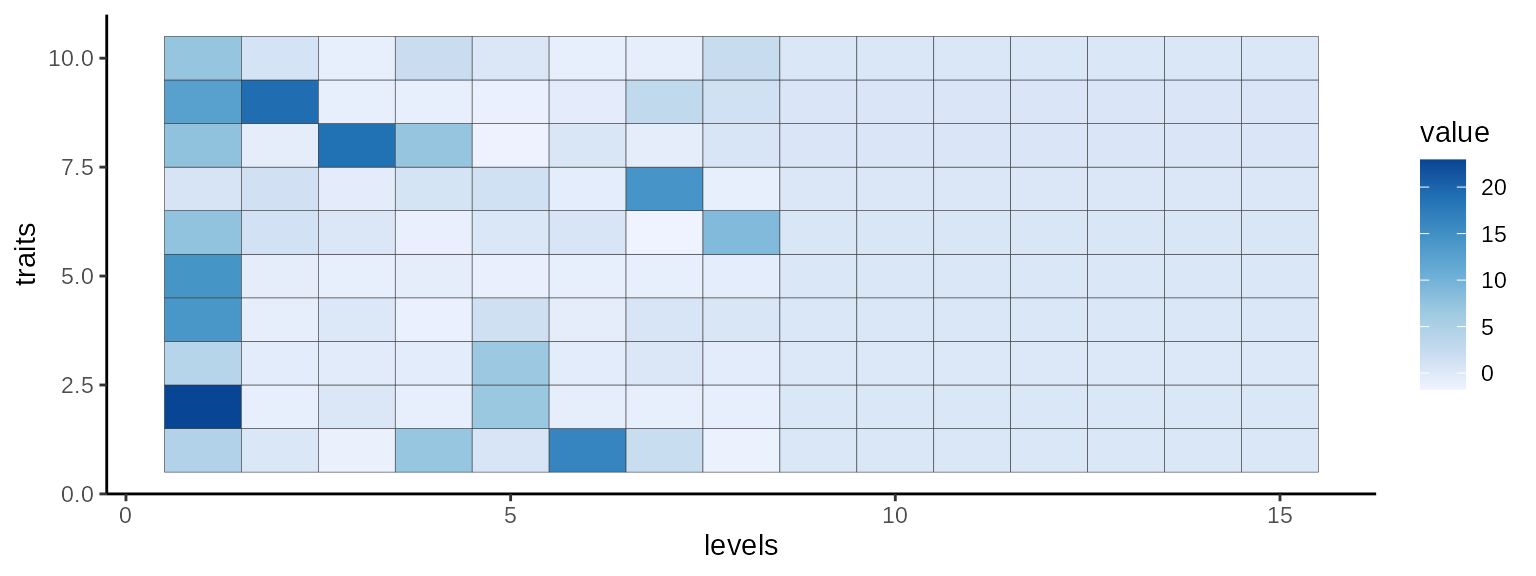
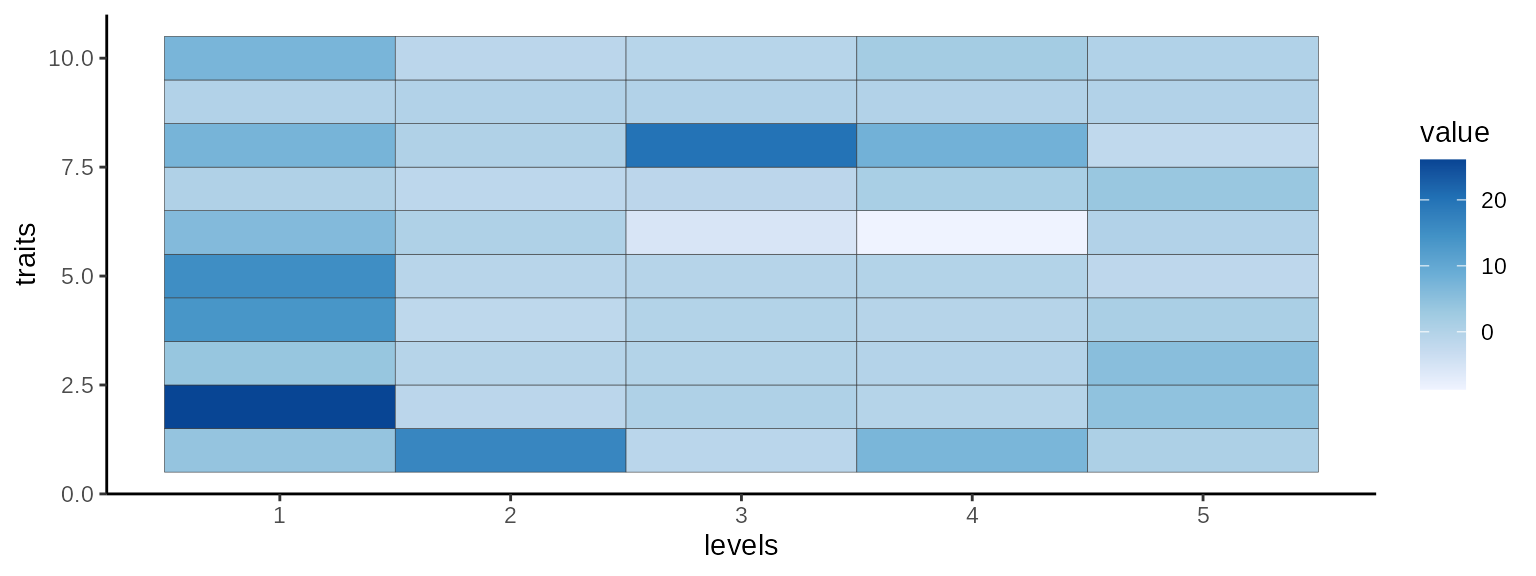
clean version

diff --git a/docs/articles/mtSusie.html b/docs/articles/mtSusie.html
@@ -33,7 +33,7 @@
       </button>
       <span class="navbar-brand">
         <a class="navbar-link" href="../index.html">mtSusie</a>
-        <span class="version label label-default" data-toggle="tooltip" data-placement="bottom" title="">0.1</span>
+        <span class="version label label-default" data-toggle="tooltip" data-placement="bottom" title="">0.1.1</span>
       </span>
     </div>
 
@@ -149,24 +149,26 @@
 <p>Here comes our <code>mtSusie</code> (multi-trait Sum of Single Effects) model. The idea is a simple modification to the original <code>susieR</code> method. For each level/layer, we aggregate the log Bayes Factors across multiple traits. Yes, it was that simple.</p>
 <div class="sourceCode" id="cb6"><pre class="downlit sourceCode r">
 <code class="sourceCode R"><span class="kw"><a href="https://rdrr.io/r/base/library.html" class="external-link">library</a></span><span class="op">(</span><span class="va">mtSusie</span><span class="op">)</span>
-<span class="va">mt.susie</span> <span class="op">&lt;-</span> <span class="fu"><a href="../reference/mt_susie.html">mt_susie</a></span><span class="op">(</span><span class="va">X</span>, <span class="va">Y</span>, clamp<span class="op">=</span><span class="cn">NULL</span><span class="op">)</span></code></pre></div>
+<span class="va">mt.susie</span> <span class="op">&lt;-</span> <span class="fu"><a href="../reference/mt_susie.html">mt_susie</a></span><span class="op">(</span><span class="va">X</span>, <span class="va">Y</span><span class="op">)</span></code></pre></div>
+<pre><code><span class="co">## winsorization with the clamping value = 4</span></code></pre>
 <pre><code><span class="co">## Fitting mtSusie ...</span></code></pre>
 <pre><code><span class="co">## Done</span></code></pre>
 <p>Which traits do we combine at each level?</p>
-<div class="sourceCode" id="cb9"><pre class="downlit sourceCode r">
+<div class="sourceCode" id="cb10"><pre class="downlit sourceCode r">
 <code class="sourceCode R"><span class="va">.dt</span> <span class="op">&lt;-</span> <span class="fu">reshape2</span><span class="fu">::</span><span class="fu"><a href="https://rdrr.io/pkg/reshape2/man/melt.html" class="external-link">melt</a></span><span class="op">(</span><span class="va">mt.susie</span><span class="op">$</span><span class="va">log.odds</span><span class="op">)</span>
 <span class="fu">ggplot</span><span class="op">(</span><span class="va">.dt</span>, <span class="fu">aes</span><span class="op">(</span><span class="va">Var1</span>, <span class="va">Var2</span>, fill<span class="op">=</span><span class="va">value</span><span class="op">)</span><span class="op">)</span> <span class="op">+</span>
     <span class="fu">geom_tile</span><span class="op">(</span>colour<span class="op">=</span><span class="st">"gray20"</span>, size<span class="op">=</span><span class="fl">.1</span><span class="op">)</span> <span class="op">+</span>
     <span class="fu">xlab</span><span class="op">(</span><span class="st">"levels"</span><span class="op">)</span> <span class="op">+</span> <span class="fu">ylab</span><span class="op">(</span><span class="st">"traits"</span><span class="op">)</span> <span class="op">+</span>
     <span class="fu">scale_fill_distiller</span><span class="op">(</span>direction<span class="op">=</span><span class="fl">1</span><span class="op">)</span></code></pre></div>
 <p><img src="mtSusie_files/figure-html/unnamed-chunk-8-1.png" width="768"></p>
-<div class="sourceCode" id="cb10"><pre class="downlit sourceCode r">
+<div class="sourceCode" id="cb11"><pre class="downlit sourceCode r">
 <code class="sourceCode R"><span class="va">.dt</span> <span class="op">&lt;-</span> <span class="fu">reshape2</span><span class="fu">::</span><span class="fu"><a href="https://rdrr.io/pkg/reshape2/man/melt.html" class="external-link">melt</a></span><span class="op">(</span><span class="va">mt.susie</span><span class="op">$</span><span class="va">alpha</span><span class="op">)</span> <span class="op">%&gt;%</span>
-    <span class="fu"><a href="https://rdrr.io/r/stats/filter.html" class="external-link">filter</a></span><span class="op">(</span><span class="va">Var2</span> <span class="op">&lt;=</span> <span class="fl">10</span><span class="op">)</span>
+    <span class="fu"><a href="https://rdrr.io/r/stats/filter.html" class="external-link">filter</a></span><span class="op">(</span><span class="va">Var2</span> <span class="op">&lt;=</span> <span class="fl">10</span><span class="op">)</span> <span class="op">%&gt;%</span>
+    <span class="fu">mutate</span><span class="op">(</span>lvl <span class="op">=</span> <span class="fu"><a href="https://rdrr.io/r/base/sprintf.html" class="external-link">sprintf</a></span><span class="op">(</span><span class="st">"L%02d"</span>, <span class="va">`Var2`</span><span class="op">)</span><span class="op">)</span>
 
 <span class="va">plt</span> <span class="op">&lt;-</span>
     <span class="fu">ggplot</span><span class="op">(</span><span class="va">.dt</span>, <span class="fu">aes</span><span class="op">(</span><span class="va">Var1</span>, <span class="va">value</span><span class="op">)</span><span class="op">)</span> <span class="op">+</span>
-    <span class="fu">facet_wrap</span><span class="op">(</span><span class="va">.</span><span class="op">~</span><span class="va">Var2</span>, nrow <span class="op">=</span> <span class="fl">2</span><span class="op">)</span> <span class="op">+</span>
+    <span class="fu">facet_wrap</span><span class="op">(</span><span class="va">.</span><span class="op">~</span><span class="va">lvl</span>, nrow <span class="op">=</span> <span class="fl">2</span><span class="op">)</span> <span class="op">+</span>
     <span class="fu">ylab</span><span class="op">(</span><span class="st">"PIP"</span><span class="op">)</span> <span class="op">+</span> <span class="fu">xlab</span><span class="op">(</span><span class="st">"variants"</span><span class="op">)</span> <span class="op">+</span>
     <span class="fu">geom_point</span><span class="op">(</span>colour<span class="op">=</span><span class="st">"gray"</span>, size<span class="op">=</span><span class="fl">2</span><span class="op">)</span>
 
@@ -177,7 +179,7 @@
 <span class="fu"><a href="https://rdrr.io/r/base/print.html" class="external-link">print</a></span><span class="op">(</span><span class="va">plt</span><span class="op">)</span></code></pre></div>
 <p><img src="mtSusie_files/figure-html/unnamed-chunk-9-1.png" width="768"></p>
 <p>Once we have identified a “union” of all the causal variants across all the traits, we can assign trait-specific effects based on variant-by-variant statistics at each level/layer. At each level, <code>mtSusie</code> will select a causal variant shared across traits, but not all the traits will support it and result in trait-specific local false sign rate (LFSR) values.</p>
-<div class="sourceCode" id="cb11"><pre class="downlit sourceCode r">
+<div class="sourceCode" id="cb12"><pre class="downlit sourceCode r">
 <code class="sourceCode R"><span class="va">.dt</span> <span class="op">&lt;-</span> <span class="fu">data.table</span><span class="fu">::</span><span class="fu"><a href="https://Rdatatable.gitlab.io/data.table/reference/setDT.html" class="external-link">setDT</a></span><span class="op">(</span><span class="va">mt.susie</span><span class="op">$</span><span class="va">cs</span><span class="op">)</span>
 <span class="va">.show</span> <span class="op">&lt;-</span> <span class="fu"><a href="https://rdrr.io/r/base/unique.html" class="external-link">unique</a></span><span class="op">(</span><span class="va">.dt</span><span class="op">[</span><span class="va">alpha</span> <span class="op">&gt;</span> <span class="fl">.1</span><span class="op">]</span><span class="op">$</span><span class="va">variants</span><span class="op">)</span>
 <span class="va">.dt</span> <span class="op">&lt;-</span> <span class="va">.dt</span><span class="op">[</span><span class="va">variants</span> <span class="op"><a href="https://rdrr.io/r/base/match.html" class="external-link">%in%</a></span> <span class="va">.show</span><span class="op">]</span>

diff --git a/docs/reference/fit_mt_interaction_susie.html b/docs/reference/fit_mt_interaction_susie.html
@@ -1,5 +1,5 @@
 <!DOCTYPE html>
-<!-- Generated by pkgdown: do not edit by hand --><html lang="en"><head><meta http-equiv="Content-Type" content="text/html; charset=UTF-8"><meta charset="utf-8"><meta http-equiv="X-UA-Compatible" content="IE=edge"><meta name="viewport" content="width=device-width, initial-scale=1.0"><title>Estimate a multi-trait Sum of Single Effect regression model — fit_mt_susie • mtSusie</title><!-- jquery --><script src="https://cdnjs.cloudflare.com/ajax/libs/jquery/3.4.1/jquery.min.js" integrity="sha256-CSXorXvZcTkaix6Yvo6HppcZGetbYMGWSFlBw8HfCJo=" crossorigin="anonymous"></script><!-- Bootstrap --><link rel="stylesheet" href="https://cdnjs.cloudflare.com/ajax/libs/twitter-bootstrap/3.4.1/css/bootstrap.min.css" integrity="sha256-bZLfwXAP04zRMK2BjiO8iu9pf4FbLqX6zitd+tIvLhE=" crossorigin="anonymous"><script src="https://cdnjs.cloudflare.com/ajax/libs/twitter-bootstrap/3.4.1/js/bootstrap.min.js" integrity="sha256-nuL8/2cJ5NDSSwnKD8VqreErSWHtnEP9E7AySL+1ev4=" crossorigin="anonymous"></script><!-- bootstrap-toc --><link rel="stylesheet" href="../bootstrap-toc.css"><script src="../bootstrap-toc.js"></script><!-- Font Awesome icons --><link rel="stylesheet" href="https://cdnjs.cloudflare.com/ajax/libs/font-awesome/5.12.1/css/all.min.css" integrity="sha256-mmgLkCYLUQbXn0B1SRqzHar6dCnv9oZFPEC1g1cwlkk=" crossorigin="anonymous"><link rel="stylesheet" href="https://cdnjs.cloudflare.com/ajax/libs/font-awesome/5.12.1/css/v4-shims.min.css" integrity="sha256-wZjR52fzng1pJHwx4aV2AO3yyTOXrcDW7jBpJtTwVxw=" crossorigin="anonymous"><!-- clipboard.js --><script src="https://cdnjs.cloudflare.com/ajax/libs/clipboard.js/2.0.6/clipboard.min.js" integrity="sha256-inc5kl9MA1hkeYUt+EC3BhlIgyp/2jDIyBLS6k3UxPI=" crossorigin="anonymous"></script><!-- headroom.js --><script src="https://cdnjs.cloudflare.com/ajax/libs/headroom/0.11.0/headroom.min.js" integrity="sha256-AsUX4SJE1+yuDu5+mAVzJbuYNPHj/WroHuZ8Ir/CkE0=" crossorigin="anonymous"></script><script src="https://cdnjs.cloudflare.com/ajax/libs/headroom/0.11.0/jQuery.headroom.min.js" integrity="sha256-ZX/yNShbjqsohH1k95liqY9Gd8uOiE1S4vZc+9KQ1K4=" crossorigin="anonymous"></script><!-- pkgdown --><link href="../pkgdown.css" rel="stylesheet"><script src="../pkgdown.js"></script><meta property="og:title" content="Estimate a multi-trait Sum of Single Effect regression model — fit_mt_susie"><meta property="og:description" content="Estimate a multi-trait Sum of Single Effect regression model"><!-- mathjax --><script src="https://cdnjs.cloudflare.com/ajax/libs/mathjax/2.7.5/MathJax.js" integrity="sha256-nvJJv9wWKEm88qvoQl9ekL2J+k/RWIsaSScxxlsrv8k=" crossorigin="anonymous"></script><script src="https://cdnjs.cloudflare.com/ajax/libs/mathjax/2.7.5/config/TeX-AMS-MML_HTMLorMML.js" integrity="sha256-84DKXVJXs0/F8OTMzX4UR909+jtl4G7SPypPavF+GfA=" crossorigin="anonymous"></script><!--[if lt IE 9]>
+<!-- Generated by pkgdown: do not edit by hand --><html lang="en"><head><meta http-equiv="Content-Type" content="text/html; charset=UTF-8"><meta charset="utf-8"><meta http-equiv="X-UA-Compatible" content="IE=edge"><meta name="viewport" content="width=device-width, initial-scale=1.0"><title>Estimate mtSusie regression model with an interaction matrix — fit_mt_interaction_susie • mtSusie</title><!-- jquery --><script src="https://cdnjs.cloudflare.com/ajax/libs/jquery/3.4.1/jquery.min.js" integrity="sha256-CSXorXvZcTkaix6Yvo6HppcZGetbYMGWSFlBw8HfCJo=" crossorigin="anonymous"></script><!-- Bootstrap --><link rel="stylesheet" href="https://cdnjs.cloudflare.com/ajax/libs/twitter-bootstrap/3.4.1/css/bootstrap.min.css" integrity="sha256-bZLfwXAP04zRMK2BjiO8iu9pf4FbLqX6zitd+tIvLhE=" crossorigin="anonymous"><script src="https://cdnjs.cloudflare.com/ajax/libs/twitter-bootstrap/3.4.1/js/bootstrap.min.js" integrity="sha256-nuL8/2cJ5NDSSwnKD8VqreErSWHtnEP9E7AySL+1ev4=" crossorigin="anonymous"></script><!-- bootstrap-toc --><link rel="stylesheet" href="../bootstrap-toc.css"><script src="../bootstrap-toc.js"></script><!-- Font Awesome icons --><link rel="stylesheet" href="https://cdnjs.cloudflare.com/ajax/libs/font-awesome/5.12.1/css/all.min.css" integrity="sha256-mmgLkCYLUQbXn0B1SRqzHar6dCnv9oZFPEC1g1cwlkk=" crossorigin="anonymous"><link rel="stylesheet" href="https://cdnjs.cloudflare.com/ajax/libs/font-awesome/5.12.1/css/v4-shims.min.css" integrity="sha256-wZjR52fzng1pJHwx4aV2AO3yyTOXrcDW7jBpJtTwVxw=" crossorigin="anonymous"><!-- clipboard.js --><script src="https://cdnjs.cloudflare.com/ajax/libs/clipboard.js/2.0.6/clipboard.min.js" integrity="sha256-inc5kl9MA1hkeYUt+EC3BhlIgyp/2jDIyBLS6k3UxPI=" crossorigin="anonymous"></script><!-- headroom.js --><script src="https://cdnjs.cloudflare.com/ajax/libs/headroom/0.11.0/headroom.min.js" integrity="sha256-AsUX4SJE1+yuDu5+mAVzJbuYNPHj/WroHuZ8Ir/CkE0=" crossorigin="anonymous"></script><script src="https://cdnjs.cloudflare.com/ajax/libs/headroom/0.11.0/jQuery.headroom.min.js" integrity="sha256-ZX/yNShbjqsohH1k95liqY9Gd8uOiE1S4vZc+9KQ1K4=" crossorigin="anonymous"></script><!-- pkgdown --><link href="../pkgdown.css" rel="stylesheet"><script src="../pkgdown.js"></script><meta property="og:title" content="Estimate mtSusie regression model with an interaction matrix — fit_mt_interaction_susie"><meta property="og:description" content="Estimate mtSusie regression model with an interaction matrix"><!-- mathjax --><script src="https://cdnjs.cloudflare.com/ajax/libs/mathjax/2.7.5/MathJax.js" integrity="sha256-nvJJv9wWKEm88qvoQl9ekL2J+k/RWIsaSScxxlsrv8k=" crossorigin="anonymous"></script><script src="https://cdnjs.cloudflare.com/ajax/libs/mathjax/2.7.5/config/TeX-AMS-MML_HTMLorMML.js" integrity="sha256-84DKXVJXs0/F8OTMzX4UR909+jtl4G7SPypPavF+GfA=" crossorigin="anonymous"></script><!--[if lt IE 9]>
 <script src="https://oss.maxcdn.com/html5shiv/3.7.3/html5shiv.min.js"></script>
 <script src="https://oss.maxcdn.com/respond/1.4.2/respond.min.js"></script>
 <![endif]--></head><body data-spy="scroll" data-target="#toc">
@@ -37,20 +37,21 @@
       </header><div class="row">
   <div class="col-md-9 contents">
     <div class="page-header">
-    <h1>Estimate a multi-trait Sum of Single Effect regression model</h1>
+    <h1>Estimate mtSusie regression model with an interaction matrix</h1>
     
-    <div class="hidden name"><code>fit_mt_susie.Rd</code></div>
+    <div class="hidden name"><code>fit_mt_interaction_susie.Rd</code></div>
     </div>
 
     <div class="ref-description">
-    <p>Estimate a multi-trait Sum of Single Effect regression model</p>
+    <p>Estimate mtSusie regression model with an interaction matrix</p>
     </div>
 
     <div id="ref-usage">
-    <div class="sourceCode"><pre class="sourceCode r"><code><span class="fu">fit_mt_susie</span><span class="op">(</span>
+    <div class="sourceCode"><pre class="sourceCode r"><code><span class="fu">fit_mt_interaction_susie</span><span class="op">(</span>
   <span class="va">x</span>,
   <span class="va">y</span>,
-  levels <span class="op">=</span> <span class="fl">15L</span>,
+  <span class="va">w</span>,
+  levels_per_inter <span class="op">=</span> <span class="fl">3L</span>,
   max_iter <span class="op">=</span> <span class="fl">100L</span>,
   min_iter <span class="op">=</span> <span class="fl">1L</span>,
   coverage <span class="op">=</span> <span class="fl">0.9</span>,
@@ -72,8 +73,8 @@
 <dd><p>output matrix</p></dd>
 
 
-<dt>levels</dt>
-<dd><p>number of "single" effects</p></dd>
+<dt>w</dt>
+<dd><p>interaction matrix</p></dd>
 
 
 <dt>max_iter</dt>
@@ -102,6 +103,10 @@
 
 <dt>full_stat</dt>
 <dd><p>keep full statistics</p></dd>
+
+
+<dt>levels</dt>
+<dd><p>number of "single" effects</p></dd>
 
 </dl></div>
     <div id="value">
@@ -177,6 +182,9 @@
 
 <dt>lodds</dt>
 <dd><p>log-odds ratio</p></dd>
+
+<dt>interaction</dt>
+<dd><p>interacting column index</p></dd>
 
 </dl></div>
 

diff --git a/docs/reference/mt_susie.html b/docs/reference/mt_susie.html
@@ -17,7 +17,7 @@
       </button>
       <span class="navbar-brand">
         <a class="navbar-link" href="../index.html">mtSusie</a>
-        <span class="version label label-default" data-toggle="tooltip" data-placement="bottom" title="">0.1</span>
+        <span class="version label label-default" data-toggle="tooltip" data-placement="bottom" title="">0.1.1</span>
       </span>
     </div>
 
@@ -50,7 +50,8 @@
     <div class="sourceCode"><pre class="sourceCode r"><code><span class="fu">mt_susie</span><span class="op">(</span>
   <span class="va">X</span>,
   <span class="va">Y</span>,
-  L <span class="op">=</span> <span class="fl">15</span>,
+  L <span class="op">=</span> <span class="fl">5</span>,
+  W <span class="op">=</span> <span class="cn">NULL</span>,
   clamp <span class="op">=</span> <span class="fl">4</span>,
   max.iter <span class="op">=</span> <span class="fl">100</span>,
   min.iter <span class="op">=</span> <span class="fl">5</span>,
@@ -58,7 +59,8 @@
   coverage <span class="op">=</span> <span class="fl">0.9</span>,
   min.pip.cutoff <span class="op">=</span> <span class="cn">NULL</span>,
   lodds.cutoff <span class="op">=</span> <span class="fl">0</span>,
-  prior.var <span class="op">=</span> <span class="fl">100</span>
+  prior.var <span class="op">=</span> <span class="fl">0.1</span>,
+  output.full.stat <span class="op">=</span> <span class="cn">TRUE</span>
 <span class="op">)</span></code></pre></div>
     </div>
 
@@ -73,7 +75,11 @@
 
 
 <dt>L</dt>
-<dd><p>levels or expected num of independent factors (default: 15)</p></dd>
+<dd><p>levels or expected num of independent factors (default: 5)</p></dd>
+
+
+<dt>W</dt>
+<dd><p>n x k interaction terms matrix (default: NULL)</p></dd>
 
 
 <dt>clamp</dt>
@@ -101,11 +107,15 @@
 
 
 <dt>lodds.cutoff</dt>
-<dd><p>log-odds ratio cutoff for multitrait factors</p></dd>
+<dd><p>log-odds ratio cutoff for multi-trait factors (default: 0)</p></dd>
 
 
 <dt>prior.var</dt>
-<dd><p>prior level variance</p></dd>
+<dd><p>prior level variance (default: 0.1)</p></dd>
+
+
+<dt>output.full.stat</dt>
+<dd><p>output every bit of the results (default: TRUE)</p></dd>
 
 </dl></div>
     <div id="value">
@@ -184,7 +194,11 @@
 <dt>lodds</dt>
 <dd><p>log-odds ratio</p></dd>
 
-</dl></div>
+
+<dt>interaction</dt>
+<dd><p>interacting column index</p></dd>
+</dl><p>(if W!=NULL)</p>
+    </div>
 
   </div>
   <div class="col-md-3 hidden-xs hidden-sm" id="pkgdown-sidebar">

diff --git a/docs/reference/index.html b/docs/reference/index.html
@@ -17,7 +17,7 @@
       </button>
       <span class="navbar-brand">
         <a class="navbar-link" href="../index.html">mtSusie</a>
-        <span class="version label label-default" data-toggle="tooltip" data-placement="bottom" title="">0.1</span>
+        <span class="version label label-default" data-toggle="tooltip" data-placement="bottom" title="">0.1.1</span>
       </span>
     </div>
 
@@ -45,6 +45,10 @@
           <p class="section-desc"></p>
         </th>
       </tr></tbody><tbody><tr><td>
+          <p><code><a href="fit_mt_interaction_susie.html">fit_mt_interaction_susie()</a></code> </p>
+        </td>
+        <td><p>Estimate mtSusie regression model with an interaction matrix</p></td>
+      </tr><tr><td>
           <p><code><a href="fit_mt_susie.html">fit_mt_susie()</a></code> </p>
         </td>
         <td><p>Estimate a multi-trait Sum of Single Effect regression model</p></td>

diff --git a/docs/authors.html b/docs/authors.html
@@ -17,7 +17,7 @@
       </button>
       <span class="navbar-brand">
         <a class="navbar-link" href="index.html">mtSusie</a>
-        <span class="version label label-default" data-toggle="tooltip" data-placement="bottom" title="">0.1</span>
+        <span class="version label label-default" data-toggle="tooltip" data-placement="bottom" title="">0.1.1</span>
       </span>
     </div>
 
@@ -57,13 +57,13 @@
 
     <p>Park Y (2023).
 <em>mtSusie: mtSusie</em>.
-R package version 0.1. 
+R package version 0.1.1. 
 </p>
     <pre>@Manual{,
   title = {mtSusie: mtSusie},
   author = {Yongjin Park},
   year = {2023},
-  note = {R package version 0.1},
+  note = {R package version 0.1.1},
 }</pre>
 
   </div>

diff --git a/docs/articles/index.html b/docs/articles/index.html
@@ -17,7 +17,7 @@
       </button>
       <span class="navbar-brand">
         <a class="navbar-link" href="../index.html">mtSusie</a>
-        <span class="version label label-default" data-toggle="tooltip" data-placement="bottom" title="">0.1</span>
+        <span class="version label label-default" data-toggle="tooltip" data-placement="bottom" title="">0.1.1</span>
       </span>
     </div>
 

diff --git a/docs/404.html b/docs/404.html
@@ -32,7 +32,7 @@
       </button>
       <span class="navbar-brand">
         <a class="navbar-link" href="index.html">mtSusie</a>
-        <span class="version label label-default" data-toggle="tooltip" data-placement="bottom" title="">0.1</span>
+        <span class="version label label-default" data-toggle="tooltip" data-placement="bottom" title="">0.1.1</span>
       </span>
     </div>
 

diff --git a/docs/LICENSE-text.html b/docs/LICENSE-text.html
@@ -17,7 +17,7 @@
       </button>
       <span class="navbar-brand">
         <a class="navbar-link" href="index.html">mtSusie</a>
-        <span class="version label label-default" data-toggle="tooltip" data-placement="bottom" title="">0.1</span>
+        <span class="version label label-default" data-toggle="tooltip" data-placement="bottom" title="">0.1.1</span>
       </span>
     </div>
 

diff --git a/docs/index.html b/docs/index.html
@@ -33,7 +33,7 @@
       </button>
       <span class="navbar-brand">
         <a class="navbar-link" href="index.html">mtSusie</a>
-        <span class="version label label-default" data-toggle="tooltip" data-placement="bottom" title="">0.1</span>
+        <span class="version label label-default" data-toggle="tooltip" data-placement="bottom" title="">0.1.1</span>
       </span>
     </div>
 
